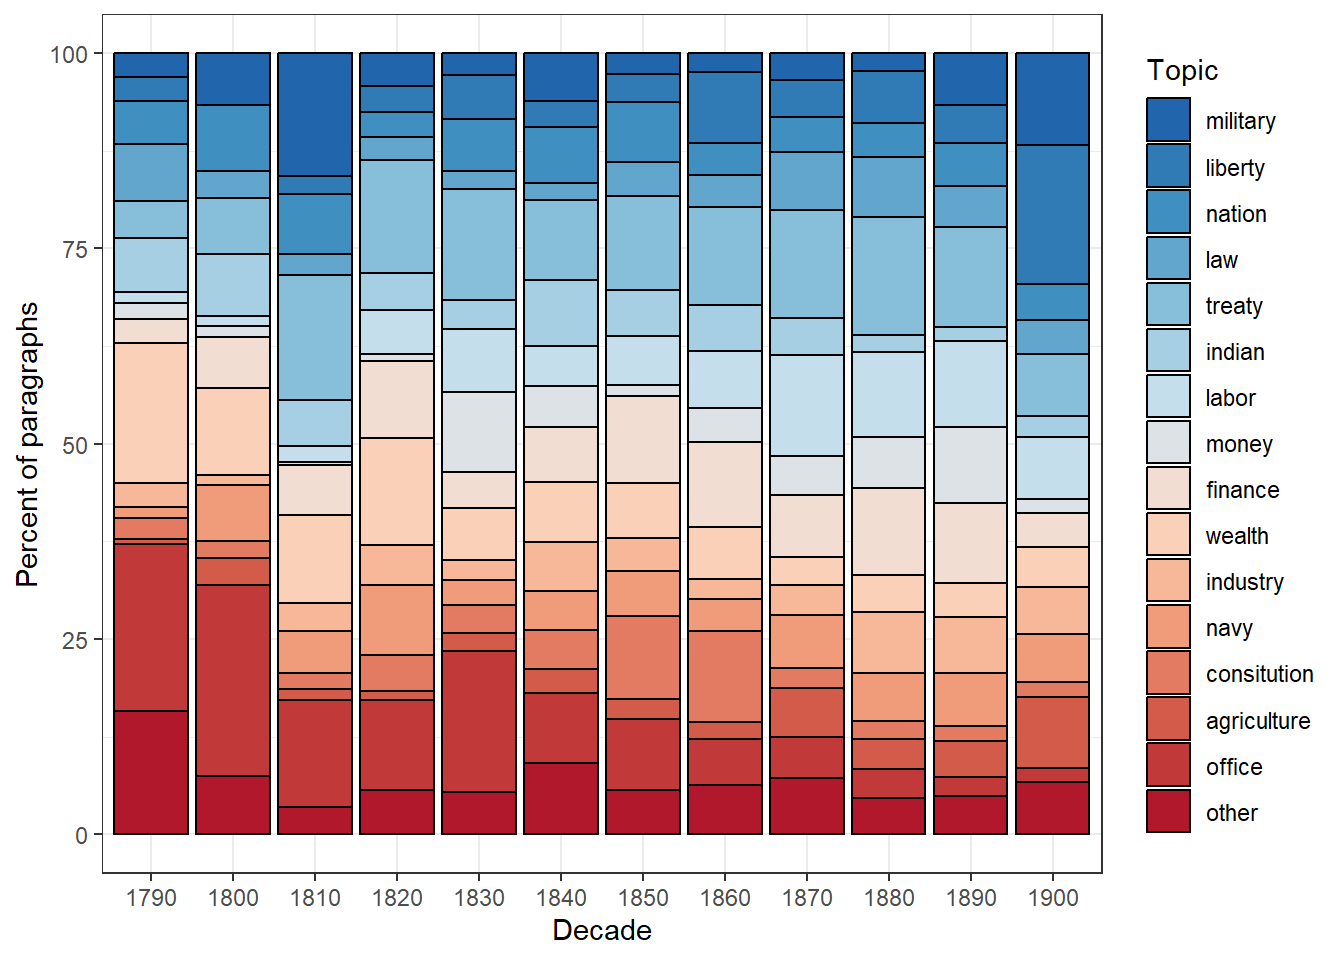
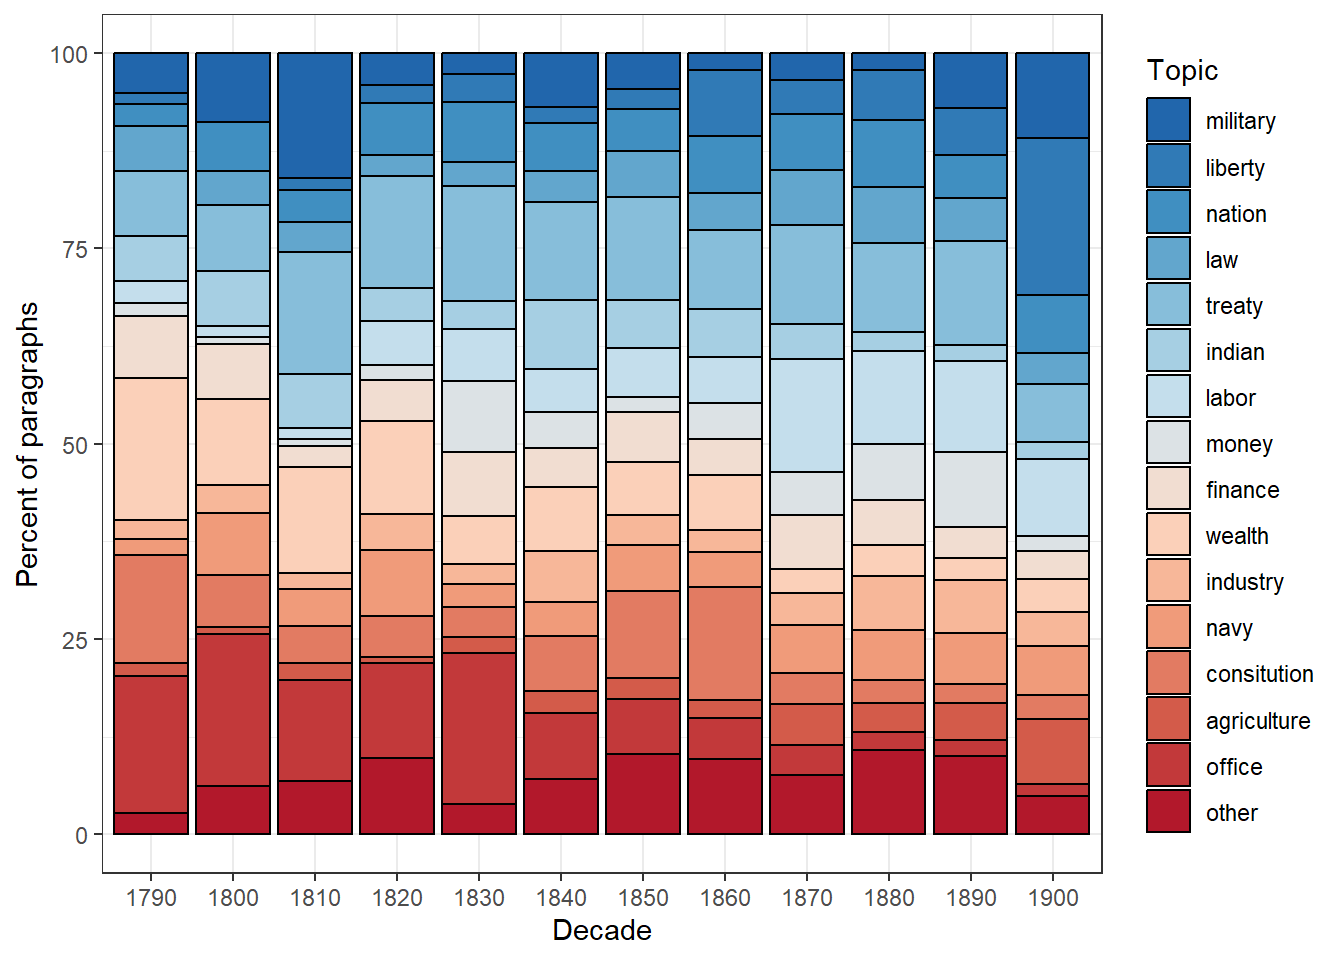
tm update

diff --git a/docs/topic.html b/docs/topic.html
@@ -874,35 +874,35 @@ seededlda::terms(tmod_slda)</code></pre>
 ##  [1,] &quot;war&quot;      &quot;free&quot;    &quot;countri&quot;  &quot;law&quot;    &quot;treati&quot;  &quot;territori&quot;
 ##  [2,] &quot;militari&quot; &quot;peopl&quot;   &quot;nation&quot;   &quot;court&quot;  &quot;claim&quot;   &quot;indian&quot;   
 ##  [3,] &quot;armi&quot;     &quot;can&quot;     &quot;citizen&quot;  &quot;case&quot;   &quot;govern&quot;  &quot;tribe&quot;    
-##  [4,] &quot;forc&quot;     &quot;govern&quot;  &quot;govern&quot;   &quot;upon&quot;   &quot;negoti&quot;  &quot;mexico&quot;   
-##  [5,] &quot;offic&quot;    &quot;must&quot;    &quot;foreign&quot;  &quot;person&quot; &quot;unite&quot;   &quot;will&quot;     
-##  [6,] &quot;servic&quot;   &quot;liberti&quot; &quot;american&quot; &quot;offic&quot;  &quot;minist&quot;  &quot;part&quot;     
-##  [7,] &quot;men&quot;      &quot;upon&quot;    &quot;upon&quot;     &quot;may&quot;    &quot;two&quot;     &quot;texa&quot;     
-##  [8,] &quot;command&quot;  &quot;everi&quot;   &quot;right&quot;    &quot;provis&quot; &quot;relat&quot;   &quot;now&quot;      
-##  [9,] &quot;conflict&quot; &quot;public&quot;  &quot;time&quot;     &quot;made&quot;   &quot;britain&quot; &quot;new&quot;      
-## [10,] &quot;order&quot;    &quot;one&quot;     &quot;properti&quot; &quot;execut&quot; &quot;british&quot; &quot;line&quot;     
-##       labor       money      finance      wealth     industry     navy       
-##  [1,] &quot;condit&quot;    &quot;bank&quot;     &quot;year&quot;       &quot;peac&quot;     &quot;produc&quot;     &quot;vessel&quot;   
-##  [2,] &quot;work&quot;      &quot;money&quot;    &quot;debt&quot;       &quot;prosper&quot;  &quot;industri&quot;   &quot;navi&quot;     
-##  [3,] &quot;report&quot;    &quot;gold&quot;     &quot;amount&quot;     &quot;will&quot;     &quot;manufactur&quot; &quot;ship&quot;     
-##  [4,] &quot;labor&quot;     &quot;currenc&quot;  &quot;expenditur&quot; &quot;us&quot;       &quot;import&quot;     &quot;naval&quot;    
-##  [5,] &quot;depart&quot;    &quot;silver&quot;   &quot;increas&quot;    &quot;peopl&quot;    &quot;product&quot;    &quot;coast&quot;    
-##  [6,] &quot;congress&quot;  &quot;govern&quot;   &quot;treasuri&quot;   &quot;great&quot;    &quot;foreign&quot;    &quot;port&quot;     
-##  [7,] &quot;secretari&quot; &quot;treasuri&quot; &quot;last&quot;       &quot;everi&quot;    &quot;trade&quot;      &quot;sea&quot;      
-##  [8,] &quot;recommend&quot; &quot;note&quot;     &quot;fiscal&quot;     &quot;interest&quot; &quot;increas&quot;    &quot;construct&quot;
-##  [9,] &quot;servic&quot;    &quot;public&quot;   &quot;revenu&quot;     &quot;happi&quot;    &quot;articl&quot;     &quot;commerc&quot;  
-## [10,] &quot;attent&quot;    &quot;issu&quot;     &quot;estim&quot;      &quot;good&quot;     &quot;upon&quot;       &quot;great&quot;    
-##       consitution agriculture  office     other     
-##  [1,] &quot;state&quot;     &quot;land&quot;       &quot;duti&quot;     &quot;congress&quot;
-##  [2,] &quot;power&quot;     &quot;agricultur&quot; &quot;will&quot;     &quot;act&quot;     
-##  [3,] &quot;constitut&quot; &quot;public&quot;     &quot;may&quot;      &quot;last&quot;    
-##  [4,] &quot;unite&quot;     &quot;grow&quot;       &quot;can&quot;      &quot;repres&quot;  
-##  [5,] &quot;govern&quot;    &quot;larg&quot;       &quot;subject&quot;  &quot;session&quot; 
-##  [6,] &quot;right&quot;     &quot;improv&quot;     &quot;congress&quot; &quot;presid&quot;  
-##  [7,] &quot;union&quot;     &quot;acr&quot;        &quot;consider&quot; &quot;senat&quot;   
-##  [8,] &quot;shall&quot;     &quot;year&quot;       &quot;measur&quot;   &quot;hous&quot;    
-##  [9,] &quot;act&quot;       &quot;reserv&quot;     &quot;object&quot;   &quot;author&quot;  
-## [10,] &quot;one&quot;       &quot;secur&quot;      &quot;shall&quot;    &quot;upon&quot;</code></pre>
+##  [4,] &quot;forc&quot;     &quot;govern&quot;  &quot;relat&quot;    &quot;govern&quot; &quot;unite&quot;   &quot;mexico&quot;   
+##  [5,] &quot;offic&quot;    &quot;must&quot;    &quot;foreign&quot;  &quot;person&quot; &quot;negoti&quot;  &quot;part&quot;     
+##  [6,] &quot;command&quot;  &quot;liberti&quot; &quot;govern&quot;   &quot;upon&quot;   &quot;minist&quot;  &quot;new&quot;      
+##  [7,] &quot;men&quot;      &quot;upon&quot;    &quot;interest&quot; &quot;author&quot; &quot;convent&quot; &quot;will&quot;     
+##  [8,] &quot;conflict&quot; &quot;everi&quot;   &quot;american&quot; &quot;act&quot;    &quot;britain&quot; &quot;texa&quot;     
+##  [9,] &quot;order&quot;    &quot;right&quot;   &quot;continu&quot;  &quot;unite&quot;  &quot;two&quot;     &quot;now&quot;      
+## [10,] &quot;island&quot;   &quot;legisl&quot;  &quot;friend&quot;   &quot;justic&quot; &quot;british&quot; &quot;within&quot;   
+##       labor       money      finance     wealth    industry     navy       
+##  [1,] &quot;condit&quot;    &quot;bank&quot;     &quot;congress&quot;  &quot;peac&quot;    &quot;produc&quot;     &quot;vessel&quot;   
+##  [2,] &quot;work&quot;      &quot;money&quot;    &quot;debt&quot;      &quot;prosper&quot; &quot;industri&quot;   &quot;navi&quot;     
+##  [3,] &quot;labor&quot;     &quot;gold&quot;     &quot;will&quot;      &quot;will&quot;    &quot;manufactur&quot; &quot;ship&quot;     
+##  [4,] &quot;report&quot;    &quot;currenc&quot;  &quot;act&quot;       &quot;us&quot;      &quot;import&quot;     &quot;naval&quot;    
+##  [5,] &quot;depart&quot;    &quot;silver&quot;   &quot;last&quot;      &quot;peopl&quot;   &quot;product&quot;    &quot;port&quot;     
+##  [6,] &quot;servic&quot;    &quot;govern&quot;   &quot;session&quot;   &quot;great&quot;   &quot;increas&quot;    &quot;construct&quot;
+##  [7,] &quot;secretari&quot; &quot;treasuri&quot; &quot;recommend&quot; &quot;everi&quot;   &quot;upon&quot;       &quot;coast&quot;    
+##  [8,] &quot;offic&quot;     &quot;issu&quot;     &quot;subject&quot;   &quot;upon&quot;    &quot;foreign&quot;    &quot;sea&quot;      
+##  [9,] &quot;congress&quot;  &quot;public&quot;   &quot;may&quot;       &quot;happi&quot;   &quot;trade&quot;      &quot;commerc&quot;  
+## [10,] &quot;attent&quot;    &quot;note&quot;     &quot;appropri&quot;  &quot;wealth&quot;  &quot;articl&quot;     &quot;great&quot;    
+##       consitution agriculture  office     other       
+##  [1,] &quot;state&quot;     &quot;land&quot;       &quot;duti&quot;     &quot;year&quot;      
+##  [2,] &quot;power&quot;     &quot;agricultur&quot; &quot;may&quot;      &quot;amount&quot;    
+##  [3,] &quot;constitut&quot; &quot;public&quot;     &quot;will&quot;     &quot;expenditur&quot;
+##  [4,] &quot;unite&quot;     &quot;grow&quot;       &quot;can&quot;      &quot;last&quot;      
+##  [5,] &quot;govern&quot;    &quot;larg&quot;       &quot;govern&quot;   &quot;treasuri&quot;  
+##  [6,] &quot;repres&quot;    &quot;year&quot;       &quot;public&quot;   &quot;increas&quot;   
+##  [7,] &quot;congress&quot;  &quot;reserv&quot;     &quot;interest&quot; &quot;fiscal&quot;    
+##  [8,] &quot;right&quot;     &quot;acr&quot;        &quot;object&quot;   &quot;estim&quot;     
+##  [9,] &quot;union&quot;     &quot;new&quot;        &quot;subject&quot;  &quot;will&quot;      
+## [10,] &quot;shall&quot;     &quot;now&quot;        &quot;consider&quot; &quot;revenu&quot;</code></pre>
 <p>Now, we extract files and create a data frame of topics and
 documents. This shows what topic is dominant in which file in tabular
 form.</p>
@@ -916,13 +916,13 @@ data.frame(tmod_slda$data$date, tmod_slda$data$president, seededlda::topics(tmod
   dplyr::mutate_if(is.character, factor) -&gt; topic_df
 # inspect
 head(topic_df)</code></pre>
-<pre><code>##       Date         President  Topic
-## text1 1790 George Washington  other
-## text2 1790 George Washington wealth
-## text3 1790 George Washington office
-## text4 1790 George Washington wealth
-## text5 1790 George Washington wealth
-## text6 1790 George Washington office</code></pre>
+<pre><code>##       Date         President       Topic
+## text1 1790 George Washington consitution
+## text2 1790 George Washington      wealth
+## text3 1790 George Washington      office
+## text4 1790 George Washington      wealth
+## text5 1790 George Washington    industry
+## text6 1790 George Washington      office</code></pre>
 <p>Using the table (or data frame) we have just created, we can
 visualize the use of topics over time.</p>
 <pre class="r"><code>topic_df %&gt;%
@@ -1519,16 +1519,22 @@ resulting document distribution over time. This analysis will provide
 insights into the prevalence and distribution of specific themes within
 the collection, allowing for a more targeted exploration of relevant
 topics across different temporal intervals.</p>
-<pre class="r"><code>topicToFilter &lt;- 6  # you can set this manually ...
-# ... or have it selected by a term in the topic name (e.g. &#39;terror&#39;)
-topicToFilter &lt;- grep(&#39;terror&#39;, topicNames)[1] 
+<pre class="r"><code># selected by a term in the topic name (e.g. &#39;militari&#39;)
+topicToFilter &lt;- grep(&#39;militari&#39;, topicNames)[1] 
 topicThreshold &lt;- 0.2
 selectedDocumentIndexes &lt;- which(theta[, topicToFilter] &gt;= topicThreshold)
 filteredCorpus &lt;- txts$text[selectedDocumentIndexes]
 # show length of filtered corpus
-filteredCorpus</code></pre>
-<pre><code>## character(0)</code></pre>
-<p>Our filtered corpus contains 0 documents related to the topic NA to
+length(filteredCorpus)</code></pre>
+<pre><code>## [1] 578</code></pre>
+<pre class="r"><code># show first 5 paragraphs
+head(filteredCorpus, 5)</code></pre>
+<pre><code>## [1] &quot;The interests of the United States require that our intercourse with other\nnations should be facilitated by such provisions as will enable me to\nfulfill my duty in that respect in the manner which circumstances may\nrender most conducive to the public good, and to this end that the\ncompensation to be made to the persons who may be employed should,\naccording to the nature of their appointments, be defined by law, and a\ncompetent fund designated for defraying the expenses incident to the\nconduct of foreign affairs.&quot;                                                                
+## [2] &quot;Your attention seems to be not less due to that particular branch of our\ntrade which belongs to the Mediterranean. So many circumstances unite in\nrendering the present state of it distressful to us that you will not think\nany deliberations misemployed which may lead to its relief and protection.&quot;                                                                                                                                                                                                                                                                                                 
+## [3] &quot;The laws you have already passed for the establishment of a judiciary\nsystem have opened the doors of justice to all descriptions of persons. You\nwill consider in your wisdom whether improvements in that system may yet be\nmade, and particularly whether an uniform process of execution on sentences\nissuing from the Federal courts be not desirable through all the States.&quot;                                                                                                                                                                                                                      
+## [4] &quot;The patronage of our commerce, of our merchants and sea men, has called for\nthe appointment of consuls in foreign countries. It seems expedient to\nregulate by law the exercise of that jurisdiction and those functions which\nare permitted them, either by express convention or by a friendly\nindulgence, in the places of their residence. The consular convention, too,\nwith His Most Christian Majesty has stipulated in certain cases the aid of\nthe national authority to his consuls established here. Some legislative\nprovision is requisite to carry these stipulations into full effect.&quot;
+## [5] &quot;\&quot;In vain may we expect peace with the Indians on our frontiers so long as a\nlawless set of unprincipled wretches can violate the rights of hospitality,\nor infringe the most solemn treaties, without receiving the punishment they\nso justly merit.\&quot;&quot;</code></pre>
+<p>Our filtered corpus contains 578 documents related to the topic 1 to
 at least 20 %.</p>
 </div>
 <div id="topic-proportions-over-time" class="section level3 unnumbered">
